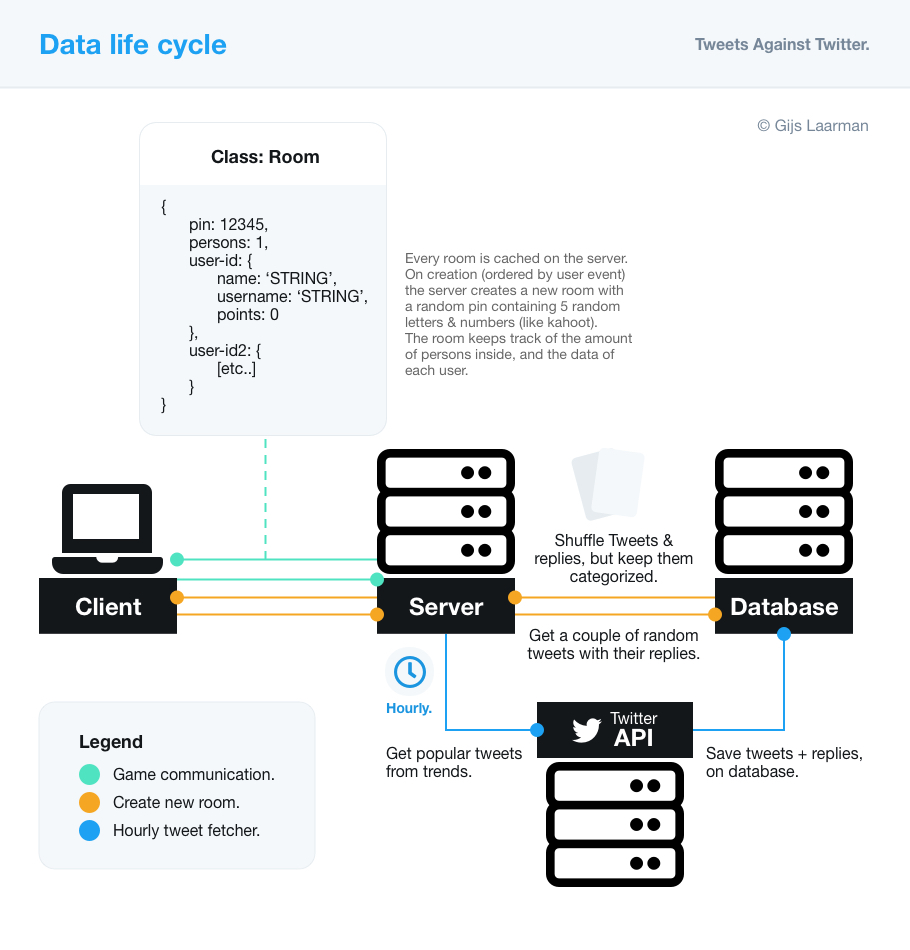
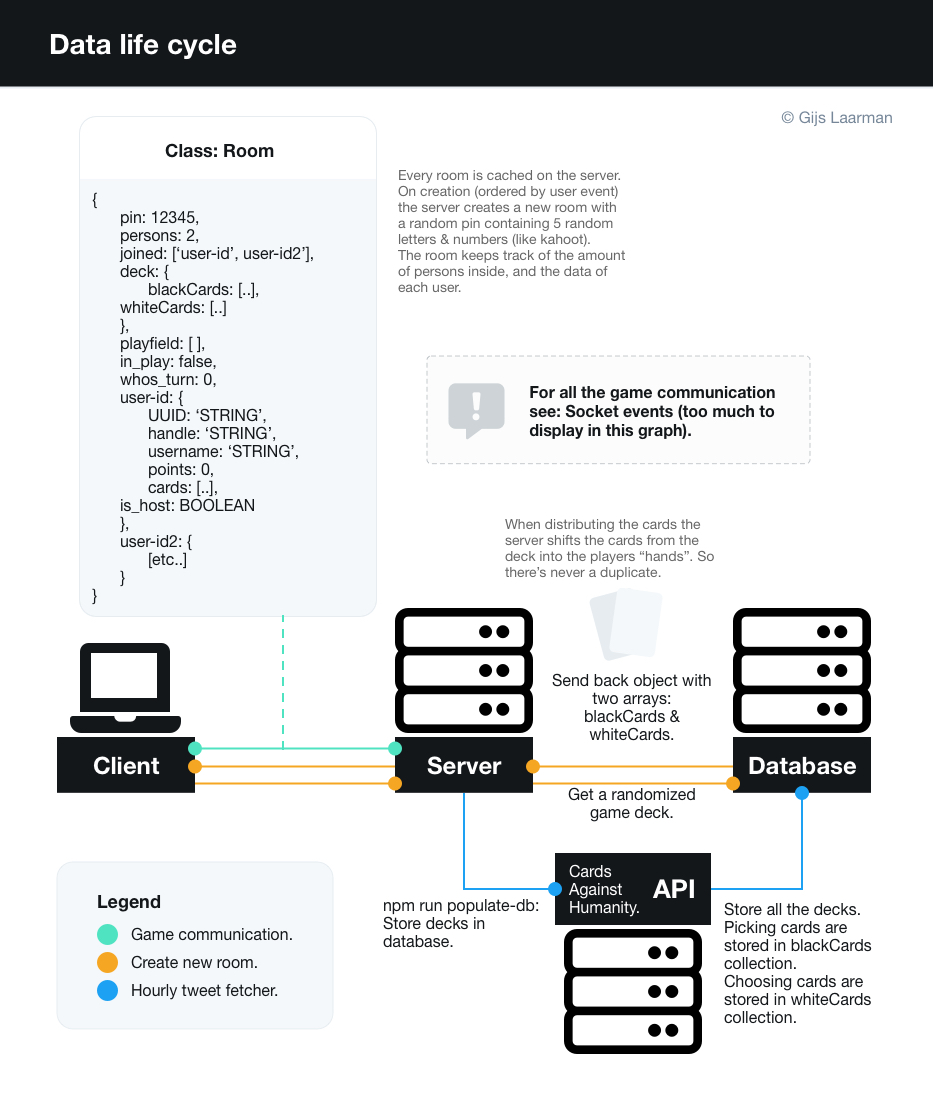
updated readme

diff --git a/app.js b/app.js
@@ -23,10 +23,6 @@ app.get('/', (req, res) => {
 	res.sendFile(__dirname + '/index.html')
 })
 
-app.get('/get-new-cards', (req, res) => {
-	// Do twitter stuff 
-})
-
 app.post('/room-check', (req, res) => {
 	// Returning a boolean based on if the room exists. So client side won't be able to figure out what rooms exists.
 	// With the boolean the client side knows if to join a room or send an error message.
@@ -77,6 +73,7 @@ io.on('connection', socket => {
 		socket.broadcast.to(pin).emit('user joined', rooms[pin][socket.id])
 		socket.emit('joining room', rooms[pin]) // Send the room details
 		console.log(rooms)
+		console.log(allUsers)
 	})
 
 	socket.on('create new room', values => {
@@ -157,9 +154,6 @@ io.on('connection', socket => {
 
 		io.to(pin).emit('winner chosen', winner)
 	})
-
-
-
 
 	// Disconnecting
 

diff --git a/README.md b/README.md
@@ -1,24 +1,271 @@
-![Logo](/docs/img/Logo.jpg)
+# Cards Against Humanity
+
+### Table of contents
+
+- [Introduction](#introduction)
+- [Installation](#installation)
+- [To do's](#to-dos)
+- [Data & Events](#data-events)
+    - [Data lifecycle](#dlc)
+    - [Events](#events)
+- [Technologies used](#technologies-used)
+- [License](#license)
+
+## Introduction
+
+I wanted to test creating a game. This is digital version of [Cards Against Humanity.](https://cardsagainsthumanity.com/).
+Create your own game room, invite your friends and play together!
+
+_Sorry still WIP, not fully playable yet_
+
+## Installation
+
+Go to the directory where you want to install this. Next copy & paste this line in your terminal.
+
+```bash
+git clone https://github.com/gijslaarman/real-time-web-1920.git && cd real-time-web-1920 && npm install
+```
+
+Almost ready to go.
+
+This server uses a mongodb server, so instert a mongodb uri.
+Create a .env file, paste your db_uri here. See docs of mongodb or your database provider.
+
+```bash
+echo 'db_uri="<your_db_uri>"' > /.env
+```
+
+\- or -
+
+Create a '.env' file (without quotes). And add manually:
+
+```bash
+db_uri="<your_db_uri>"
+```
 
 ---
 
-## Real time web
-A school project to create and understand realtime web applications.
+NPM scripts
 
+```bash
+# Start: starts up an instance of node.
+npm run start
 
+# Dev: watch for changes.
+npm run dev
 
-# Tweets against Twitter.
-A mash-up of tweets, replies and bringing out the worst in a human 🧨.
+# ⚠ Coming soon
+# Build database, DOES NOT WORK YET
+npm run build-db
+```
 
-### In short
-The server collects popular tweets and a couple of their replies. Puts the tweets & replies in a big pot and distributes them under the players. The functionalities are the same as Cards Against Humanities.™ but spiced up by randomizing the twitter feed.
+## To do's
 
-### Screenshots
-![Login screen](/docs/img/Picking_the_cards.jpg)
+Technical:
 
-### Challenges
-Fully random is not the way to go probably, there will have to be some filters to keep it interesting. Will have to see how it will pan out.
-Does the Twitter API support my idea? Will have to find out.  
+-   [x] Create a room system, with a pin as passwords.
+-   [x] Populated database with 450 "black" cards & 1600 "white" cards.
+-   [x] Room & User class to store & mutate the room's data.
+-   [x] Handle users joining & leaving.
+-   [x] Distribute cards among players.
+-   [x] Split up clientside javascript into different managers to make feature creation easier.
 
-### Data Life Cycle
+Game features:
+
+-   [x] User can join/leave without crashing.
+-   [x] User can create their own room.
+    -   [ ] User can setup their room from a selection of options to their liking.
+-   [x] Players who need to pick a card can pick click the card they want to play.
+-   [x] Cards played are anonymous until they need to be shown.
+-   [x] When everyone played their card the cards turn.
+-   [x] Winning card rewards it's player one point.
+-   [ ] If someone played a card, remove it from their inventory and draw a new card from the games deck.
+-   [ ] Have only the picker choose what the winning card is (currently everyone can choose).
+-   [ ] Rewrite the round working system so it can be recycled for the next rounds as well.
+-   [ ] Support for more than 1 pick (support for black cards with 2 or 3 empty spots).
+
+## Data & Events
+<div id="dlc"></div>
 ![Data life cycle of Tweets against Twitter.](/docs/img/DLC.jpg)
+
+Cached data on the server:
+
+##### Rooms
+
+```javascript
+// Example of a room stored. They are all stored in a global object
+// and added by their room pin name, '4etuV' in this case.
+{
+  '4etuV': Room {
+    pin: '4etuV', // Rooms pin
+    persons: 2, // Amount of persons joined
+    joined: [ 'YW1gh7Qapw9Czgb2AAAB', 'dLZ9Ay1HmYTI2JNnAAAC' ], // The users joined.
+    deck: { // This rooms carddeck, These cards are also stored like this on the DB.
+        blackCards: [
+            {
+                _id: '5eafde3022fc4643bb64353f',
+                pick: 1, // The amount of cards that need to be picked.
+                text: 'The doctor would be woefully incomplete without ___.'
+            } // Etc etc.. filled with cards.
+        ],
+        whiteCards: [
+            {
+                _id: '5eafde3022fc4643bb64353f',
+                text: 'A hammer'
+                // Etc etc.. filled with cards.
+            }
+        ]
+    },
+    // The user will only see the card 'id' that's why we store all the other data server side.
+    playfield: [
+        {
+            _id: '5eafde3022fc4643bb64353f',
+            text: 'The way white people is.',
+            id: 'AN833X59hK',
+            from_player: 'dLZ9Ay1HmYTI2JNnAAAC'
+        }
+    ],
+    in_play: false, // Are we still waiting?
+    whos_turn: 0, // index of which players turn it is. For if someone joins midgame the index has no problem.
+    YW1gh7Qapw9Czgb2AAAB: { // User object of this player, for easy access.
+      UUID: 'YW1gh7Qapw9Czgb2AAAB',
+      username: 'Gijs',
+      handle: 'percussioncharacteristic',
+      cards: [Array],
+      points: 0,
+      is_host: true
+    },
+    dLZ9Ay1HmYTI2JNnAAAC: {
+      UUID: 'dLZ9Ay1HmYTI2JNnAAAC',
+      username: 'Test persoon',
+      handle: 'testerrecommended',
+      cards: [Array],
+      points: 0,
+      is_host: false
+    }
+  }
+}
+```
+
+#### allUsers
+
+```javascript
+// allUsers object to store the data of each player, and what room they are in.
+{
+YW1gh7Qapw9Czgb2AAAB: { // User object of this player, for easy access.
+        user: {
+            UUID: 'YW1gh7Qapw9Czgb2AAAB',
+            username: 'Gijs',
+            handle: 'percussioncharacteristic',
+            is_host: true
+        },
+        room: '4etuV'
+    },
+dLZ9Ay1HmYTI2JNnAAAC: {
+        user: {
+            UUID: 'dLZ9Ay1HmYTI2JNnAAAC',
+            username: 'Test persoon',
+            handle: 'testerrecommended',
+            is_host: false
+        },
+        room: '4etuV'
+    }
+}
+
+```
+
+### Events
+How the game communicates.
+
+#### Before play
+**1. A player creates a room.**
+
+
+```
+# Event: 'create room'
+Tells the server to create a room, get some cards from the database and prepare the game.
+
+# Event: 'setup'
+Tell the users client to build up the gameroom.
+```
+![Login screen](docs/img/step_1.jpg)
+
+
+2. He shares the room pin code, by copying the code/the link or telling them. (top right it's visisble.)
+```
+# Event: 'join room'
+Tell the server that you want to join this room. So create a player & add him to the cached room.
+
+# Event: 'joining room'
+Send this back to the client of the user that's joining to make up the gameroom with it's details (players & state). 
+And populate their cards.
+
+# Event: 'user joined'
+Send this back to the users already in the room that a new user has joined.
+
+<!-- What if the user leaves? -->
+# Event: 'user left'
+On disconnect from the server send this event to all the other users in that room to handle the removal of this users' data.
+```
+
+![From friend invite](docs/img/step_2.jpg)
+
+3. Starting the game
+```
+# Event: 'start game'
+Once the host clicks start game (button is only visible to him). 
+The server will check if there are enough players in the room to start the game.
+If not the Host will get a message saying: Not enough players.
+If there are enough players the server will send back an event 'start game' to everyone.
+
+# Event: 'start game' (client side)
+GameManager handler will operate to setup the game, and recieve the first 'blackcard' from the server.
+If the server assigned you the first picker (the one who chooses the winner) you won't be able to pick 
+a card from the left side so it will be blacked out. 
+
+The cardManager will handle the creation of the top card/black card to be filled with the data.
+```
+
+![User joined](docs/img/step_2.1.jpg)
+
+4. Playing the game
+```
+# 1. Event: 'pick a card'
+The users who need to pick a card will recieve this event, this enables them to 
+be able to pick a card from the left side.
+
+# 2. Event: 'player played card'
+The player picked a card to play. Emit this action for every user, send the card 
+to the playfield without the text content but with its own unique id to know for later.
+(this is done so that the user can't cheat with inspect element).
+
+# 3. Event: 'flip the cards'
+If a user plays the last card to play ask the server to fill the card data with the content. 
+The cards will flip over and the picker is allowed to choose a card.
+
+# 4. Event: 'winner chosen'
+The picker chose a card and tells the server what card he picked. The server will correspond 
+the card id with the user and award him/her a point.
+
+There will be an overlay over the page with the message of who won and a button to start the next round.
+
+5. Event: 'start round'
+Start next round, WIP :(.
+```
+
+![playing the game](docs/img/step_4.jpg)
+
+## Technologies used
+
+* 🛠 [socket.io](https://socket.io/) for the sockets.
+* 🛠 [expressjs](https://expressjs.com) serverside.
+* 🛠 [Cards Against Humanity. API](https://cards-against-humanity-api.herokuapp.com/sets/) (for the cards).
+
+## License 
+🔓 See the [LICENSE file](https://github.com/gijslaarman/real-time-web-1920/blob/master/LICENSE) for license rights and limitations (MIT).
+
+<style>
+    code {
+    white-space : pre-wrap !important;
+    }
+</style>
